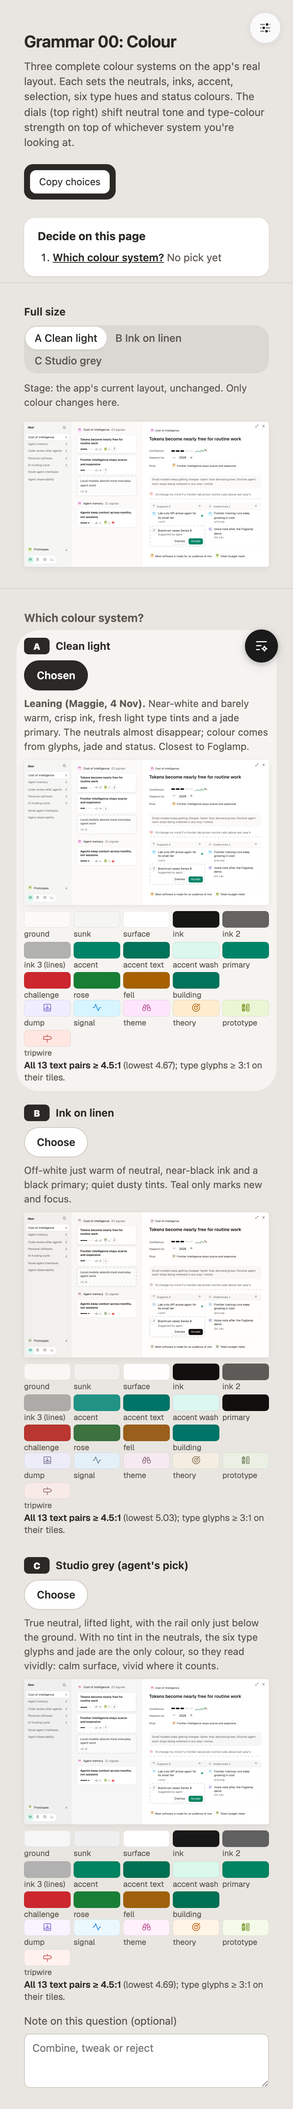
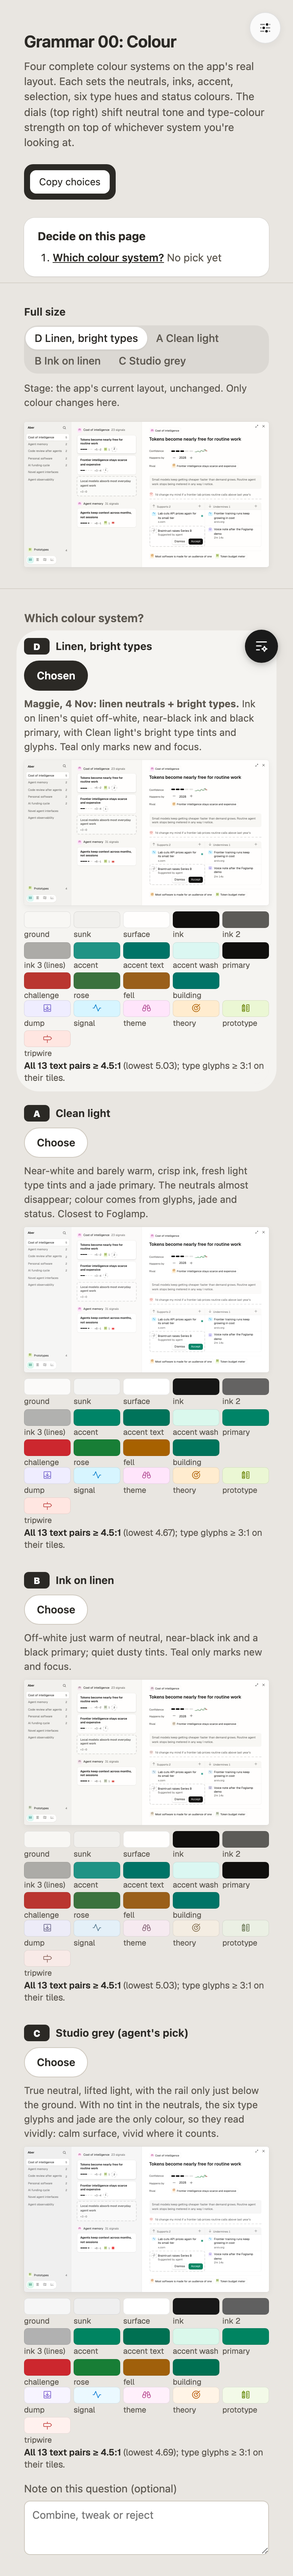
Grammar 00: linen neutrals with bright types

diff --git a/design/grammar/00-colour/index.html b/design/grammar/00-colour/index.html
@@ -24,7 +24,7 @@
 
 <header class="jig-head">
   <h1>Grammar 00: Colour</h1>
-  <p>Three complete colour systems on the app's real layout. Each sets the neutrals, inks, accent, selection, six type hues and status colours. The dials (top right) shift neutral tone and type-colour strength on top of whichever system you're looking at.</p>
+  <p>Four complete colour systems on the app's real layout. Each sets the neutrals, inks, accent, selection, six type hues and status colours. The dials (top right) shift neutral tone and type-colour strength on top of whichever system you're looking at.</p>
 </header>
 
 <div class="decide">
@@ -38,20 +38,27 @@
   <div class="viewer-bar">
     <span class="viewer-label">Full size</span>
     <span class="seg-group" role="group" aria-label="System at full size">
-      <button type="button" value="clean" aria-pressed="true">A Clean light</button>
+      <button type="button" value="linenbright" aria-pressed="true">D Linen, bright types</button>
+      <button type="button" value="clean" aria-pressed="false">A Clean light</button>
       <button type="button" value="linen" aria-pressed="false">B Ink on linen</button>
       <button type="button" value="studio" aria-pressed="false">C Studio grey</button>
     </span>
   </div>
   <p class="stage-label">Stage: the app's current layout, unchanged. Only colour changes here.</p>
-  <div class="stg-host" id="viewer" data-stage='{"system":"clean"}'></div>
+  <div class="stg-host" id="viewer" data-stage='{"system":"linenbright"}'></div>
 </section>
 
-<section class="jig-section" id="systems" data-decision="system" data-question="Which colour system?" data-default="A clean light">
+<section class="jig-section" id="systems" data-decision="system" data-question="Which colour system?" data-default="D linen bright types">
   <div class="jig-compare systems">
+    <div class="jig-option" data-option="D linen bright types">
+      <div class="jig-label"><b>D</b> Linen, bright types</div>
+      <p class="jig-note"><b>Maggie, 4 Nov: linen neutrals + bright types.</b> Ink on linen's quiet off-white, near-black ink and black primary, with Clean light's bright type tints and glyphs. Teal only marks new and focus.</p>
+      <div class="stg-host" data-option-stage data-stage='{"system":"linenbright"}'></div>
+      <div class="strip" data-strip="linenbright"></div>
+    </div>
     <div class="jig-option" data-option="A clean light">
       <div class="jig-label"><b>A</b> Clean light</div>
-      <p class="jig-note"><b>Leaning (Maggie, 4 Nov).</b> Near-white and barely warm, crisp ink, fresh light type tints and a jade primary. The neutrals almost disappear; colour comes from glyphs, jade and status. Closest to Foglamp.</p>
+      <p class="jig-note">Near-white and barely warm, crisp ink, fresh light type tints and a jade primary. The neutrals almost disappear; colour comes from glyphs, jade and status. Closest to Foglamp.</p>
       <div class="stg-host" data-option-stage data-stage='{"system":"clean"}'></div>
       <div class="strip" data-strip="clean"></div>
     </div>

diff --git a/design/grammar/_shared/tokens.css b/design/grammar/_shared/tokens.css
@@ -19,9 +19,22 @@
    Each sets: neutral hue/chroma and lightness steps, accent, type hues and their
    tile/glyph lightness+chroma (shared, so the six hues sit at one weight), status. */
 
+/* D. Linen, bright types (Maggie, 4 Nov: linen neutrals + bright types). Ink on linen's neutrals, ink, black primary and
+      teal-for-new/focus, with Clean light's bright type tiles and glyphs. The default for every page. */
+:root, [data-system="linenbright"] {
+  --n-h: 85; --n-c: 0.004;
+  --L-ground: 0.975; --L-sunk: 0.955; --L-surface: 0.998; --L-ink: 0.17; --L-ink2: 0.47; --L-ink3: 0.74;
+  --hl-a: 8%; --hl2-a: 11%; --sh-k: 0.85;
+  --acc-h: 182; --acc-c: 0.1; --acc-L: 0.6; --acc-L-text: 0.5;
+  --primary-default: ink;
+  --t-dump: 288; --t-signal: 245; --t-theme: 340; --t-theory: 70; --t-prototype: 122; --t-tripwire: 25;
+  --tt-L: 0.958; --tt-C: 0.048; --tg-L: 0.56; --tg-C: 0.16;
+  --st-neg: oklch(0.53 0.17 27); --st-neg-dot: oklch(0.61 0.18 27); --st-pos: oklch(0.5 0.1 145); --st-fell: oklch(0.54 0.11 65);
+}
+
 /* 1. Clean light (lead; Maggie leaning, 4 Nov): near-white, barely warm, crisp ink, fresh light type tints, jade primary.
-      Also the default for every page until a system is chosen. Neutrals almost disappear: sunk sits 0.017 below ground. */
-:root, [data-system="clean"] {
+      Neutrals almost disappear: sunk sits 0.017 below ground. */
+[data-system="clean"] {
   --n-h: 90; --n-c: 0.0015;
   --L-ground: 0.986; --L-sunk: 0.969; --L-surface: 1; --L-ink: 0.2; --L-ink2: 0.5; --L-ink3: 0.76;
   --hl-a: 7%; --hl2-a: 10%; --sh-k: 0.8;
@@ -109,7 +122,8 @@
   /* Primary follows the system unless a page scope sets data-primary */
   --primary: var(--accent); --primary-hover: var(--accent-hover); --on-primary: var(--on-accent);
 }
-[data-system="linen"] { --primary: var(--ink); --primary-hover: var(--ink-hover); --on-primary: var(--on-ink); }
+:root, [data-system="linen"], [data-system="linenbright"] { --primary: var(--ink); --primary-hover: var(--ink-hover); --on-primary: var(--on-ink); }
+[data-system="clean"], [data-system="studio"] { --primary: var(--accent); --primary-hover: var(--accent-hover); --on-primary: var(--on-accent); }
 [data-primary="accent"], [data-primary="accent"] [data-system] { --primary: var(--accent); --primary-hover: var(--accent-hover); --on-primary: var(--on-accent); }
 [data-primary="ink"], [data-primary="ink"] [data-system] { --primary: var(--ink); --primary-hover: var(--ink-hover); --on-primary: var(--on-ink); }
 

diff --git a/design/grammar/01-foundations/index.html b/design/grammar/01-foundations/index.html
@@ -62,7 +62,7 @@
     <p style="margin:12px 0 4px;color:#5d5850">From Maggie (PRIOR-DECISIONS.md, 1 to 4 Nov):</p>
     <ul class="agent-picks">
       <li>Layout and navigation stay as the app has them; jigs restyle, they don't re-layout. The pane aligns to the top of the main area.</li>
-      <li>Per-type object colour is back (4 Nov, reverses 1 Nov). Neutral tone is a dial; neutrals default to Clean light, the lead system on 00-colour.</li>
+      <li>Per-type object colour is back (4 Nov, reverses 1 Nov). Neutral tone is a dial; the default system is D Linen, bright types (00-colour): linen neutrals, bright type colours, black primary.</li>
       <li>Jade accent means "you are acting here": focus ring, new dots, current view, primary (unless black wins above).</li>
       <li>Phosphor Regular 16; fill only when selected. Glyphs from OBJECT_ICONS plus Signpost; Sparkle for suggestions.</li>
       <li>Geist and Geist Mono; 11/12/13/20 at 13/1.4; 15 for modal titles; names 600.</li>
